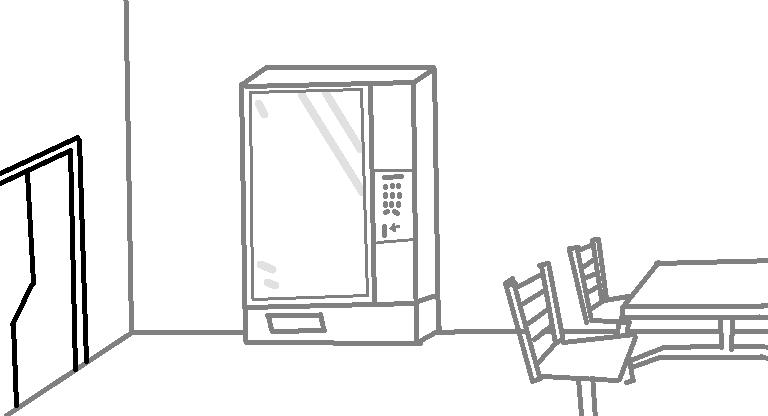
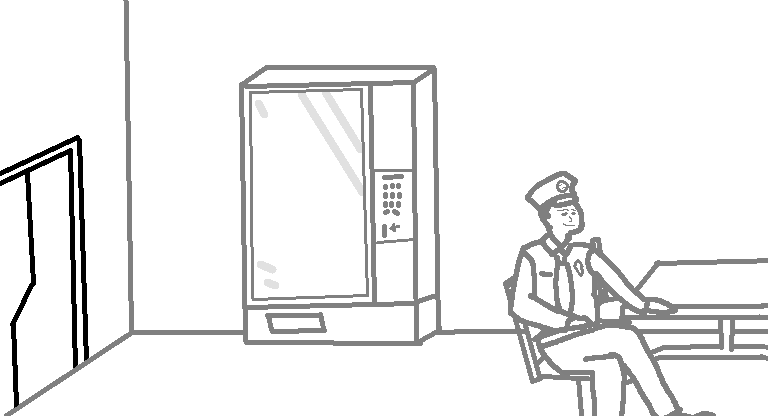
"added art for all characters"

Changed region(s): [[0.6562, 0.4062, 0.9375, 1.0]]

diff --git a/script.js b/script.js
@@ -75,10 +75,17 @@ const scenes = {
     title: "Location: General Offices",
     character: "Objective: Search for your Supervisor",
     text: "General offices for the Research Sector.",
+    background: "images/placeholder/general_offices_placeholder.png",
     choices: [
       {
         text: "Speak to <em>Supervisor</em>",
-        action: supervisorQuestion
+        action: supervisorQuestion,
+          hover: function() {
+            adjustBackgroundTemp("images/placeholder/general_offices_placeholder_sel_supervisor.png")
+          },
+          mouseOut: function() {
+            adjustBackgroundTemp("images/placeholder/general_offices_placeholder.png")
+          },
       },
       {
         text: "<strong>⬐</strong> Exit",
@@ -86,7 +93,13 @@ const scenes = {
       },
       {
           text: "Speak to <em>Intern</em>",
-          action: internGiveCoin
+          action: internGiveCoin,
+          hover: function() {
+            adjustBackgroundTemp("images/placeholder/general_offices_placeholder_sel_intern.png")
+          },
+          mouseOut: function() {
+            adjustBackgroundTemp("images/placeholder/general_offices_placeholder.png")
+          },
       }
     ]
   },
@@ -790,11 +803,11 @@ function securityLendKeycard() {
   inspecting = "sodaMachine";
   globalSceneTitle = "Speaking: Liam Jameson, <em>Security Officer Second Class</em>"
   if (inventory.includes("soda")) {
-    globalSceneText = "\"Just what the doctor ordered. Have my <u><em>Keycard</em></u>.\"";
+    globalSceneText = "\"Just what the doctor ordered. My <u><em>Keycard</em></u>, as promised. Good luck out there.\"";
     pickUpItem("keycard");
     removeItem("soda");
   } else {
-    globalSceneText = "\"You get me a <u><em>Soda</em></u>, I'll lend you my <u><em>Keycard</em></u>.\"";
+    globalSceneText = "\"Investigatin' that smell reeking up in the vents? Tell ya what, you get me a <u><em>Soda</em></u>, I'll lend you my <u><em>Keycard</em></u>. Win-win, right?\"";
   }
   updateScene(currentScene);
 }
